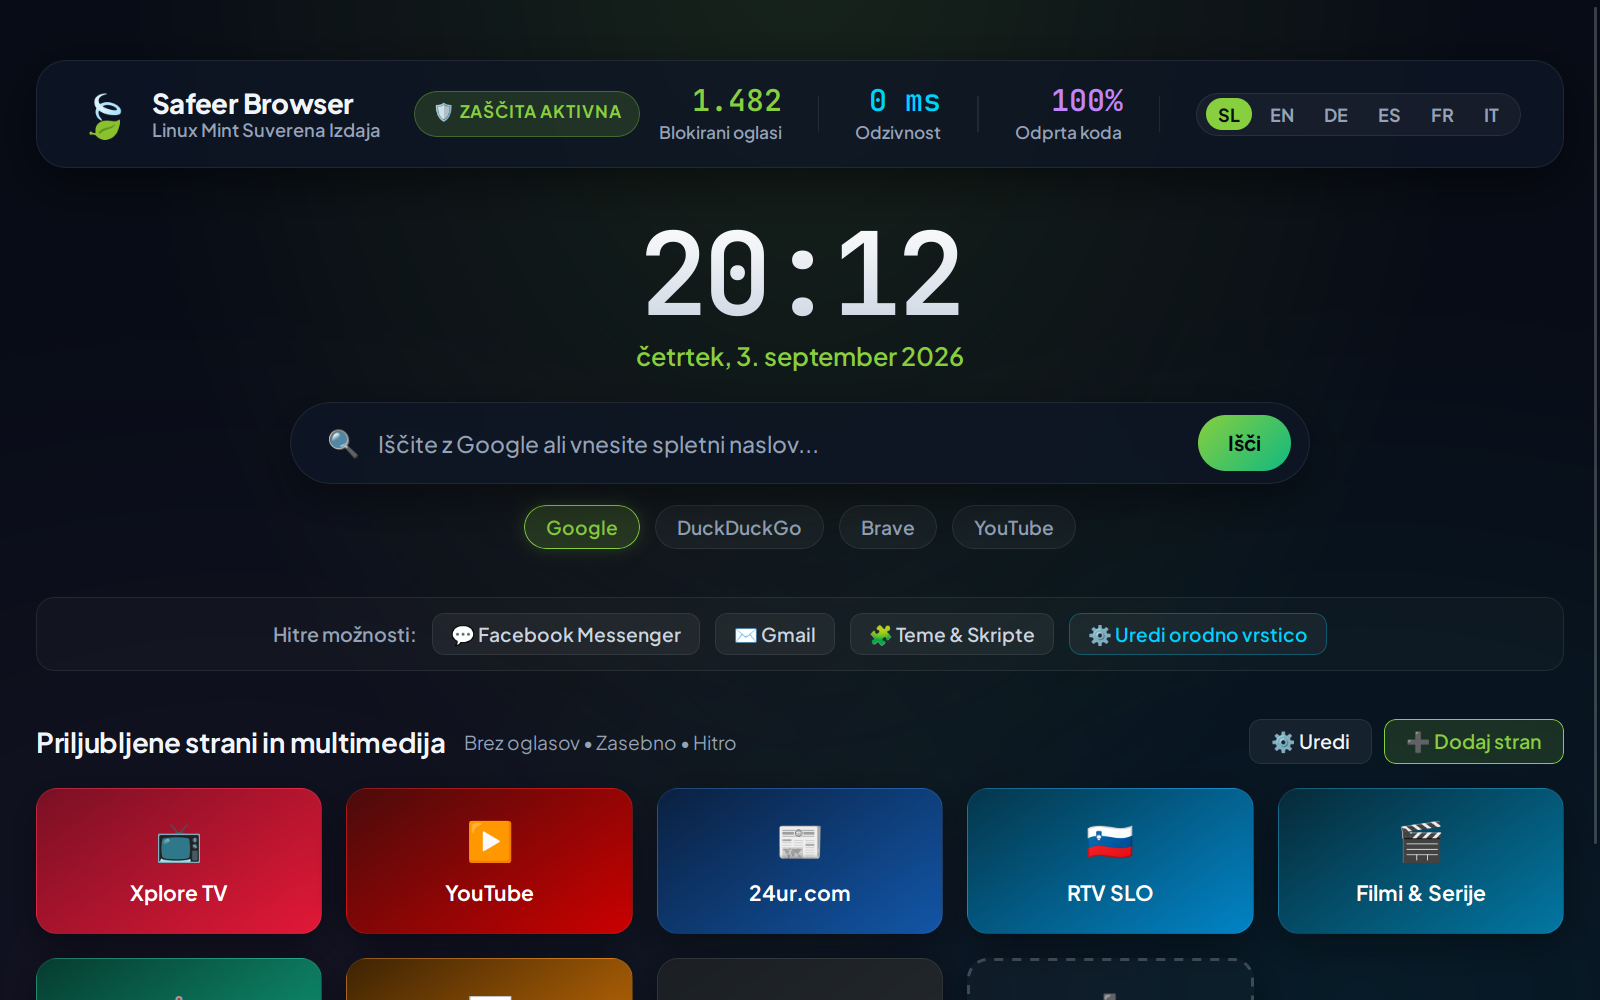
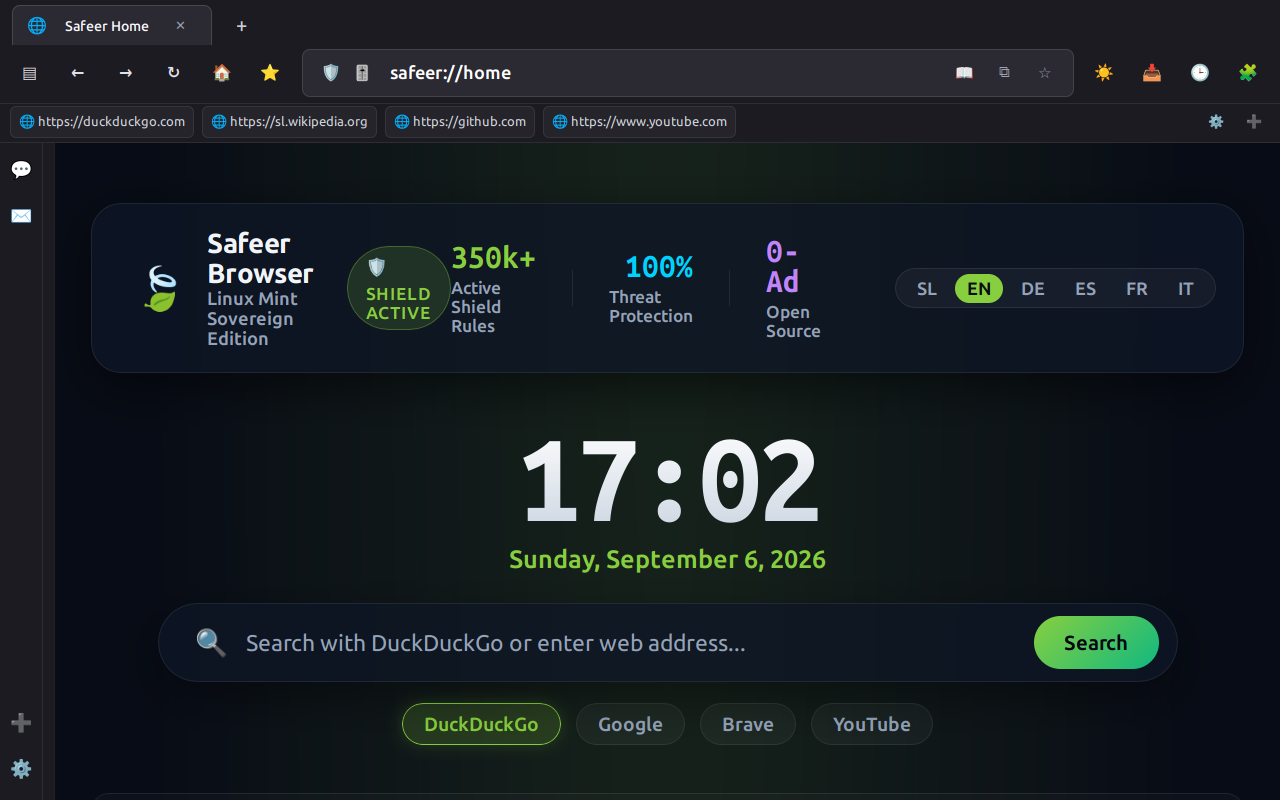
docs: align v1.0.7 across index.html and /linux, add bilingual English summary, and sync exact SHA-256

diff --git a/index.html b/index.html
@@ -4,7 +4,7 @@
   <meta charset="UTF-8">
   <meta name="viewport" content="width=device-width, initial-scale=1.0, viewport-fit=cover">
   <title>Safeer Browser | Suveren, varen spletni brskalnik za Linux, Android in TV</title>
-  <meta name="description" content="Safeer Browser v1.0.4: Odprtokodni spletni brskalnik z lokalnim varnostnim slojem pred znanimi botneti (abuse.ch), Instant YouTube Music motorjem, 0 oglasi in predvajanjem v ozadju. Safeer is a security layer, not a guarantee against all online threats.">
+  <meta name="description" content="Safeer Browser v1.0.7: Nativni GTK3 .deb brskalnik za Linux Mint & Ubuntu ter mobilna izdaja z lokalnim varnostnim ščitom (abuse.ch), DuckDuckGo privzeto in 0 oglasi na YouTubu. Safeer is a security layer, not a guarantee against all online threats.">
   <link rel="preconnect" href="https://fonts.googleapis.com">
   <link rel="preconnect" href="https://fonts.gstatic.com" crossorigin>
   <link href="https://fonts.googleapis.com/css2?family=Plus+Jakarta+Sans:wght@400;500;600;700;800;900&family=JetBrains+Mono:wght@400;500;600;700&display=swap" rel="stylesheet">
@@ -63,8 +63,8 @@
 
           <div class="badge-active" style="display:inline-flex; align-items:center; gap:8px; padding:6px 14px; background:rgba(0, 210, 255, 0.1); border:1px solid rgba(0, 210, 255, 0.3); border-radius:100px; margin-bottom:14px; font-size:0.84rem;">
             <span class="pulse-dot"></span>
-            <strong style="color:var(--accent-cyan);">NOVO v1.0.4:</strong>
-            <span style="color:#e2e8f0;">Preoblikovane Nastavitve, 6 jezikov (i18n), AdGuard ščit, šifriran DoH (Quad9 / AdGuard / Tor) &amp; stabilen tunel</span>
+            <strong style="color:var(--accent-cyan);">NOVO v1.0.7:</strong>
+            <span style="color:#e2e8f0;">Linux Mint &amp; Ubuntu Izdaja (.deb) z vrstico zaznamkov, čarovnikom ob prvem zagonu in DuckDuckGo</span>
           </div>
 
           <h1 class="hero-title">
@@ -894,13 +894,18 @@ setInterval(() => {
           </div>
 
           <div class="dl-actions" style="flex-direction: column; gap: 8px;">
-            <a href="assets/desktop/safeer-browser_1.0.7_all.deb" download class="btn-pill-green" style="flex:1; justify-content:center;">
-              <svg width="18" height="18" viewBox="0 0 24 24" fill="none" stroke="currentColor" stroke-width="2.5"><path d="M21 15v4a2 2 0 0 1-2 2H5a2 2 0 0 1-2-2v-4"></path><polyline points="7 10 12 15 17 10"></polyline><line x1="12" y1="15" x2="12" y2="3"></line></svg>
-              <span data-i18n="dl_btn_desktop">Prenesi .deb paket (1.1 MB)</span>
-            </a>
+            <div style="display:flex; gap:8px; flex-wrap:wrap;">
+              <a href="linux/" class="btn-pill-green" style="flex:1; justify-content:center; padding:10px 16px;">
+                <span>🍃 Namenska Linux stran &amp; Navodila →</span>
+              </a>
+              <a href="assets/desktop/safeer-browser_1.0.7_all.deb" download class="btn-pill-secondary" style="justify-content:center; padding:10px 16px;">
+                <svg width="18" height="18" viewBox="0 0 24 24" fill="none" stroke="currentColor" stroke-width="2.5"><path d="M21 15v4a2 2 0 0 1-2 2H5a2 2 0 0 1-2-2v-4"></path><polyline points="7 10 12 15 17 10"></polyline><line x1="12" y1="15" x2="12" y2="3"></line></svg>
+                <span data-i18n="dl_btn_desktop">Prenesi .deb (1.1 MB)</span>
+              </a>
+            </div>
             <div style="display:flex; justify-content:space-between; align-items:center; font-size:0.72rem; padding:2px 4px; flex-wrap:wrap; gap:6px;">
-              <span style="color:#64748b; font-family:monospace;">SHA-256: 89829f09a5c2...73d36ede</span>
-              <a href="assets/desktop/safeer-browser-linux.tar.gz" download style="color:#87cf3e; text-decoration:underline;" data-i18n="dl_alt_targz">Ali prenesi .tar.gz (506 KB)</a>
+              <span style="color:#64748b; font-family:monospace;">SHA-256: f15c92aa8c4540fb3893b8ddcd7cd25dfbba19a8b9f57763bdc03ca63339c8ae</span>
+              <a href="assets/desktop/safeer-browser-linux.tar.gz" download style="color:#87cf3e; text-decoration:underline;" data-i18n="dl_alt_targz">Ali prenesi .tar.gz (520 KB)</a>
             </div>
           </div>
         </div>
@@ -913,11 +918,11 @@ setInterval(() => {
     <div class="container">
       <ul class="footer-nav">
         <li><a href="https://github.com/memelandfaner/-safeer-browser" target="_blank">GitHub Safeer Mobile</a></li>
-        <li><a href="https://github.com/memelandfaner/-safeer-browser/releases/tag/v1.0.7" target="_blank" style="color:var(--accent-cyan); font-weight:600;">Mobile Release v1.0.4</a></li>
+        <li><a href="https://github.com/memelandfaner/-safeer-browser/releases/tag/v1.0.4" target="_blank" style="color:var(--accent-cyan); font-weight:600;">Mobile Release v1.0.4</a></li>
         <li><a href="https://github.com/memelandfaner/tv-browser-2" target="_blank">GitHub TV Browser 2</a></li>
         <li><a href="https://github.com/memelandfaner/tv-browser-2/releases/tag/v2.1.80" target="_blank" style="color:#c084fc; font-weight:600;">TV Release v2.1.80</a></li>
         <li><a href="https://github.com/memelandfaner/linux-mint-safeer-browser" target="_blank">GitHub Linux Mint</a></li>
-        <li><a href="https://github.com/memelandfaner/linux-mint-safeer-browser/releases/tag/v1.0.7" target="_blank" style="color:#87cf3e; font-weight:600;">Linux Mint Release v1.0.4</a></li>
+        <li><a href="https://github.com/memelandfaner/linux-mint-safeer-browser/releases/tag/v1.0.7" target="_blank" style="color:#87cf3e; font-weight:600;">Linux Mint Release v1.0.7</a></li>
         <li><a href="https://tinyurl.com/298zn386" target="_blank">Mobile APK Mirror</a></li>
         <li><a href="https://tinyurl.com/29y9bg9k" target="_blank">TV APK Mirror</a></li>
       </ul>

diff --git a/linux/index.html b/linux/index.html
@@ -178,6 +178,12 @@
             <span style="color:#87cf3e;">🛡</span> <strong>Safeer is a security layer, not a guarantee against all online threats.</strong> Lokalni (k)$ trie blokira znana C2 botnet in zlonamerna vozlišča (baza abuse.ch).
           </div>
 
+          <!-- English Community Brief for Linux Mint / Ubuntu Forums -->
+          <div style="margin: 14px 0 18px 0; padding: 14px 18px; background: rgba(15, 23, 42, 0.8); border: 1px solid rgba(135, 207, 62, 0.4); border-left: 4px solid #87cf3e; border-radius: 8px; font-size: 0.86rem; color: #cbd5e1; line-height: 1.55;">
+            <strong style="color:#87cf3e; font-size:0.9rem;">English Community Summary (Linux Mint &amp; Ubuntu Forums):</strong><br>
+            Safeer is a sovereign, lightweight WebKit2GTK browser engineered natively for Linux Mint and Ubuntu desktops (Cinnamon, MATE, XFCE). It delivers 0-ad YouTube playback with background audio, 1-click bookmarks import from Firefox &amp; Chrome profiles, onboarding wizard (DuckDuckGo default), keyboard muscle memory (<code>Ctrl+Shift+T</code>, <code>Ctrl+Tab</code>, <code>Ctrl+K</code>), strict 3rd-party cookie isolation, and local C2 botnet filtering (abuse.ch). Packaged as a clean 1.1 MB <code>.deb</code> with safe alternatives priority (40) — it will <strong>never</strong> aggressively hijack your default browser.
+          </div>
+
           <!-- Hero Actions -->
           <div class="hero-cta-group">
             <a href="../assets/desktop/safeer-browser_1.0.7_all.deb" download class="btn-pill-green" style="font-size: 0.95rem; padding: 12px 24px;">
@@ -197,9 +203,9 @@
 
           <div style="margin-top: 8px; display: flex; align-items: center; justify-content: space-between; flex-wrap: wrap; gap: 8px;">
             <div class="sha-badge">
-              SHA-256: ff48a3c825c62da9d25e32e7c7a104899d372b4e51a338034ca3f0f8d2707b82
+              SHA-256: f15c92aa8c4540fb3893b8ddcd7cd25dfbba19a8b9f57763bdc03ca63339c8ae
             </div>
-            <a href="../assets/desktop/safeer-browser-linux.tar.gz" download style="color:#87cf3e; font-size:0.78rem; text-decoration:underline;">Prenesi .tar.gz (506 KB)</a>
+            <a href="../assets/desktop/safeer-browser-linux.tar.gz" download style="color:#87cf3e; font-size:0.78rem; text-decoration:underline;">Prenesi .tar.gz (520 KB)</a>
           </div>
         </div>
 
@@ -247,27 +253,27 @@
         <!-- Feature 1: No Snap / Native .deb -->
         <div class="dl-card" style="border-color: rgba(135,207,62,0.3);">
           <div style="font-size: 2rem; margin-bottom: 12px;">🍃</div>
-          <h3 style="color:#87cf3e; font-size:1.15rem; margin-bottom: 8px;">100% Brez Snapa • Naravni .deb</h3>
+          <h3 style="color:#87cf3e; font-size:1.15rem; margin-bottom: 8px;">100% Brez Snapa • Naravni .deb (v1.0.7)</h3>
           <p style="color:#94a3b8; font-size:0.88rem; line-height:1.5;">
-            Namesti se neposredno v <code>/usr/lib/safeer-browser/</code> in <code>/usr/bin/safeer</code>. Brez počasnega zagona Snapa, brez podvojenih knjižnic in brez omejitev zaprtega okolja.
+            Namesti se neposredno v <code>/usr/lib/safeer-browser/</code> in <code>/usr/bin/safeer</code>. Varna prioriteta Debian alternatives (<strong>40</strong>) zagotavlja, da se brskalnik nikoli agresivno ne vsili kot privzeti.
           </p>
         </div>
 
-        <!-- Feature 2: Bookmarks Import -->
+        <!-- Feature 2: Bookmarks Bar & Import -->
         <div class="dl-card" style="border-color: rgba(0,210,255,0.3);">
           <div style="font-size: 2rem; margin-bottom: 12px;">⭐</div>
-          <h3 style="color:#00d2ff; font-size:1.15rem; margin-bottom: 8px;">1-Klik Uvoz Zaznamkov</h3>
+          <h3 style="color:#00d2ff; font-size:1.15rem; margin-bottom: 8px;">Vrstica Zaznamkov &amp; 1-Klik Uvoz</h3>
           <p style="color:#94a3b8; font-size:0.88rem; line-height:1.5;">
-            Prehod je trenuten. Samodejno zazna nameščen Firefox (bere neposredno iz <code>places.sqlite</code>) in Google Chrome / Chromium (iz <code>Bookmarks</code> JSON) ali uvozi kateri koli HTML.
+            Nova vrstica zaznamkov (<kbd>Ctrl+Shift+B</kbd>) in hitri meni (<kbd>Ctrl+B</kbd>). Samodejno zazna nameščen Firefox (bere neposredno iz <code>places.sqlite</code>) ter Chrome/Brave in uvozi vaše priljubljene strani.
           </p>
         </div>
 
-        <!-- Feature 0: Home Button & Default Browser -->
+        <!-- Feature 0: First Run Wizard & DuckDuckGo -->
         <div class="dl-card" style="border-color: rgba(135,207,62,0.4);">
-          <div style="font-size: 2rem; margin-bottom: 12px;">🏠</div>
-          <h3 style="color:#87cf3e; font-size:1.15rem; margin-bottom: 8px;">Domača stran &amp; Privzeti brskalnik</h3>
+          <div style="font-size: 2rem; margin-bottom: 12px;">🧙♂</div>
+          <h3 style="color:#87cf3e; font-size:1.15rem; margin-bottom: 8px;">Čarovnik ob prvem zagonu &amp; DuckDuckGo</h3>
           <p style="color:#94a3b8; font-size:0.88rem; line-height:1.5;">
-            Gumb za domačo stran (🏠) v orodni vrstici in bližnjica <kbd>Alt+Home</kbd>. Safeer lahko z enim klikom nastavite kot privzeti spletni brskalnik v sistemu Linux Mint (Cinnamon, MATE, XFCE).
+            Prijeten 1-minutni začetni čarovnik: izbira iskalnika (privzeto DuckDuckGo, Brave, Google), 1-klik uvoz profilov ter možnost nastavitve kot privzeti brskalnik. Gumb za dom (🏠) in <kbd>Alt+Home</kbd>.
           </p>
         </div>
 

diff --git a/js/main.js b/js/main.js
@@ -2116,10 +2116,10 @@ const screenshotData = {
   desktop: {
     main: {
       img: 'assets/desktop/desktop_mint_showcase.png',
-      url: 'mint://awesomebar',
-      status: 'Unix Socket Aktiven',
+      url: 'safeer://home',
+      status: 'Linux Mint v1.0.7',
       icon: '🍃',
-      caption: '<strong>Linux Mint Suverena Izdaja:</strong> Awesomebar terminalna orodna vrstica, vgrajen Tampermonkey za skripte ter prilagoditev tem in CSS-ja.'
+      caption: '<strong>Linux Mint &amp; Ubuntu Izdaja v1.0.7:</strong> Nativni GTK3/WebKit2GTK brskalnik z vrstico zaznamkov (Ctrl+Shift+B), DuckDuckGo privzeto, čarovnikom ob prvem zagonu in 0 oglasov na YouTube.'
     }
   }
 };
@@ -2212,7 +2212,14 @@ window.switchPlatformShowcase = switchPlatformShowcase;
 window.switchScreenshot = switchScreenshot;
 
 function setupShowcaseSwitcher() {
-  switchPlatformShowcase('mobile');
+  const ua = (navigator.userAgent || '').toLowerCase();
+  if (ua.includes('linux') && !ua.includes('android')) {
+    switchPlatformShowcase('desktop');
+  } else if (ua.includes('android') && (ua.includes('tv') || ua.includes('smart') || ua.includes('aft') || ua.includes('bravia'))) {
+    switchPlatformShowcase('tv');
+  } else {
+    switchPlatformShowcase('desktop');
+  }
 }
 
 // --- 5. Generate Inline SVG QR Codes on Load ---
